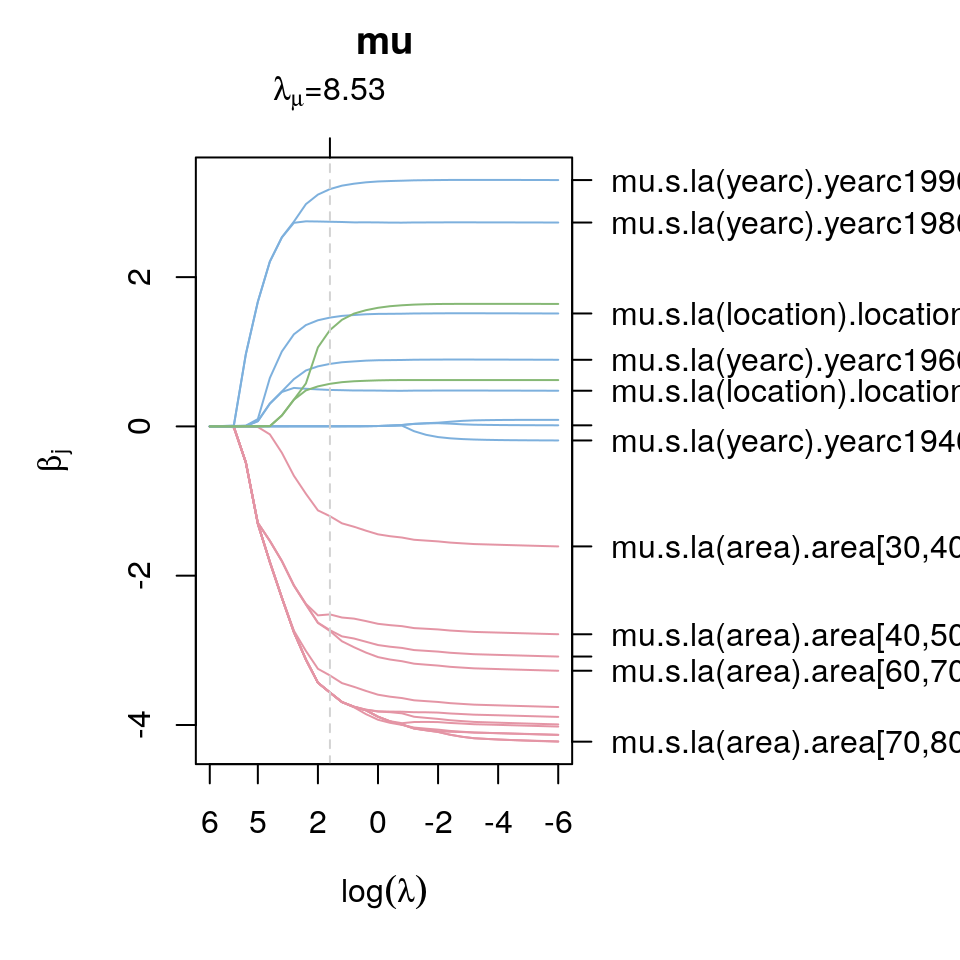
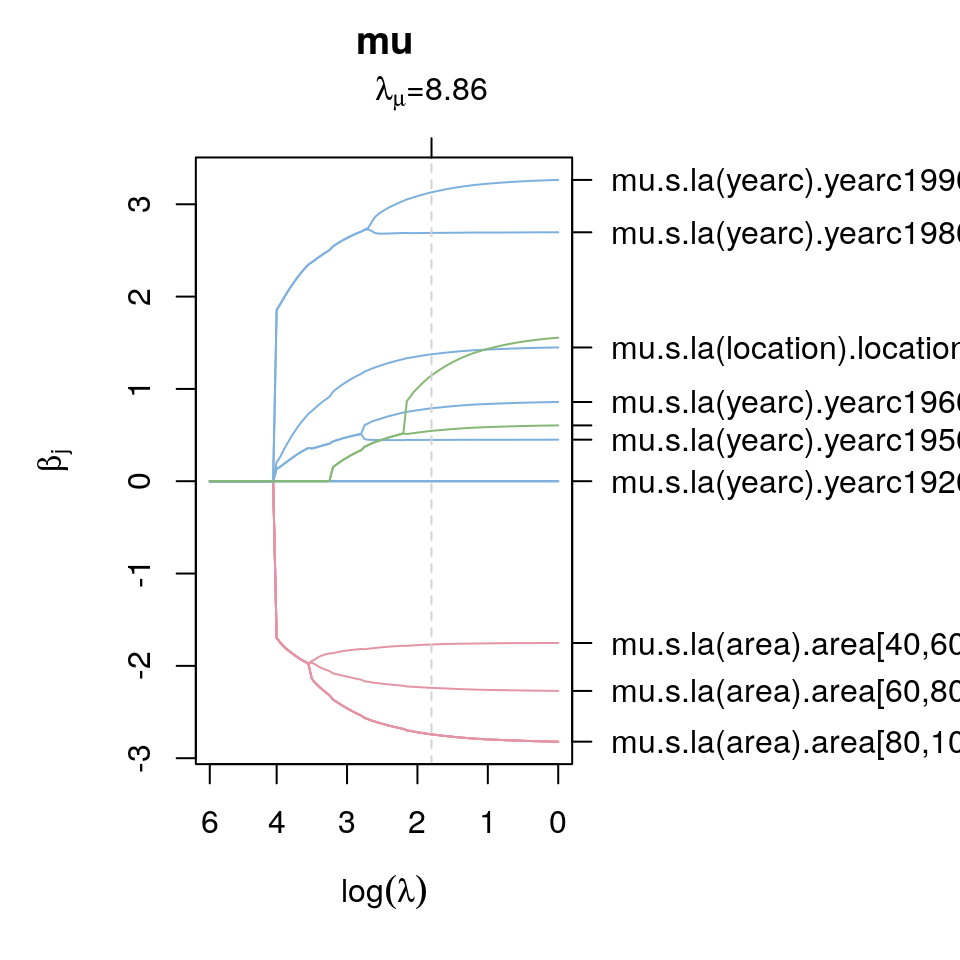
git-svn-id: svn://svn.r-forge.r-project.org/svnroot/bayesr@3400 edb9625f-4e0d-4859-8d74-9fd3b1da38cb

diff --git a/www/articles/lasso.html b/www/articles/lasso.html
@@ -144,9 +144,9 @@
 rent99 &lt;-<span class="st"> </span><span class="kw"><a href="https://www.rdocumentation.org/packages/utils/topics/read.table">read.table</a></span>(file_url, <span class="dt">header =</span> <span class="ot">TRUE</span>)</code></pre></div>
 <p>The response is the monthly rent per square meter in Euro (<code>rentsqm</code>). In this example we use the year of construction (<code>yearc</code>), area (<code>area</code>) and the location classification (`location’, derived from expert knowledge) of the apartment as covariates. Following the example <span class="citation">(Groll et al. 2019)</span>, the two continuous covariates are categorized</p>
 <div class="sourceCode"><pre class="sourceCode r"><code class="sourceCode r">## Create factors of continuous covariates.
-rent99$yearc &lt;-<span class="st"> </span><span class="kw"><a href="https://www.rdocumentation.org/packages/base/topics/factor">as.factor</a></span>(<span class="kw"><a href="https://www.rdocumentation.org/packages/base/topics/Round">floor</a></span>(rent99$yearc /<span class="st"> </span><span class="dv">10</span>) *<span class="st"> </span><span class="dv">10</span>)
-rent99$area &lt;-<span class="st"> </span><span class="kw"><a href="https://www.rdocumentation.org/packages/base/topics/cut">cut</a></span>(rent99$area, <span class="dt">breaks =</span> <span class="kw"><a href="https://www.rdocumentation.org/packages/base/topics/c">c</a></span>(<span class="dv">0</span>, <span class="kw"><a href="https://www.rdocumentation.org/packages/base/topics/seq">seq</a></span>(<span class="dv">30</span>, <span class="dv">140</span>, <span class="dt">by =</span> <span class="dv">10</span>), <span class="ot">Inf</span>),
-  <span class="dt">include.lowest =</span> <span class="ot">TRUE</span>, <span class="dt">right =</span> <span class="ot">FALSE</span>)
+rent99$yearc &lt;-<span class="st"> </span><span class="kw"><a href="https://www.rdocumentation.org/packages/base/topics/factor">ordered</a></span>(<span class="kw"><a href="https://www.rdocumentation.org/packages/base/topics/Round">floor</a></span>(rent99$yearc /<span class="st"> </span><span class="dv">10</span>) *<span class="st"> </span><span class="dv">10</span>)
+rent99$area &lt;-<span class="st"> </span><span class="kw"><a href="https://www.rdocumentation.org/packages/base/topics/cut">cut</a></span>(rent99$area, <span class="dt">breaks =</span> <span class="kw"><a href="https://www.rdocumentation.org/packages/base/topics/seq">seq</a></span>(<span class="dv">20</span>, <span class="dv">160</span>, <span class="dt">by =</span> <span class="dv">20</span>),
+  <span class="dt">include.lowest =</span> <span class="ot">TRUE</span>, <span class="dt">right =</span> <span class="ot">FALSE</span>, <span class="dt">ordered =</span> <span class="ot">TRUE</span>)
 
 ## Also transform to factor.
 rent99$location &lt;-<span class="st"> </span><span class="kw"><a href="https://www.rdocumentation.org/packages/base/topics/factor">as.factor</a></span>(rent99$location)</code></pre></div>
@@ -160,18 +160,18 @@ f &lt;-<span class="st"> </span><span class="kw"><a href="https://www.rdocumenta
 ## LASSO model based on lambda grid,
 ## use special lasso() estimation engine.
 rentmodel &lt;-<span class="st"> </span><span class="kw"><a href="../reference/bamlss.html">bamlss</a></span>(f, <span class="dt">data =</span> rent99, <span class="dt">optimizer =</span> lasso, <span class="dt">sampler =</span> <span class="ot">FALSE</span>,
-  <span class="dt">upper =</span> <span class="kw"><a href="https://www.rdocumentation.org/packages/base/topics/Log">exp</a></span>(<span class="dv">30</span>), <span class="dt">lower =</span> <span class="fl">0.223102</span>, <span class="dt">criterion =</span> <span class="st">"BIC"</span>, <span class="dt">nlambda =</span> <span class="dv">30</span>, <span class="dt">multiple =</span> <span class="ot">TRUE</span>)</code></pre></div>
-<p>where arguments <code>upper</code> and <code>lower</code> define the limits of the LASSO tuning parameters. Estimation in this case is based on the BIC using a two dimensional grid search with <span class="math inline">\(30 \times 30\)</span> iterations. Note that <code>fuse=1</code> is used for nominal fusion and <code>fuse=2</code> for ordinal fusion within the special <code><a href="../reference/lasso.html">la()</a></code> model term constructor function.</p>
+  <span class="dt">criterion =</span> <span class="st">"BIC"</span>, <span class="dt">nlambda =</span> <span class="dv">100</span>, <span class="dt">multiple =</span> <span class="ot">TRUE</span>, <span class="dt">upper =</span> <span class="kw"><a href="https://www.rdocumentation.org/packages/base/topics/Log">exp</a></span>(<span class="dv">6</span>), <span class="dt">lower =</span> <span class="kw"><a href="https://www.rdocumentation.org/packages/base/topics/Log">exp</a></span>(<span class="dv">0</span>))</code></pre></div>
+<p>where arguments <code>upper</code> and <code>lower</code> define the limits of the LASSO tuning parameters. Estimation in this case is based on the BIC using a two dimensional grid search with <span class="math inline">\(200 \times 200\)</span> iterations. Note that <code>fuse=1</code> is used for nominal fusion and <code>fuse=2</code> for ordinal fusion within the special <code><a href="../reference/lasso.html">la()</a></code> model term constructor function.</p>
 <p>The resulting marginal BIC curves can be visualized with</p>
-<div class="sourceCode"><pre class="sourceCode r"><code class="sourceCode r"><span class="kw"><a href="../reference/lasso.html">lasso_plot</a></span>(rentmodel, <span class="dt">which =</span> <span class="st">"criterion"</span>)</code></pre></div>
+<div class="sourceCode"><pre class="sourceCode r"><code class="sourceCode r"><span class="kw"><a href="../reference/pathplot.html">pathplot</a></span>(rentmodel, <span class="dt">which =</span> <span class="st">"criterion"</span>)</code></pre></div>
 <p><img src="lasso_files/figure-html/unnamed-chunk-5-1.png" width="768" style="display: block; margin: auto;"> In this example both tuning parameters have the same value, also indicated by the gray dashed vertical lines. The coefficient paths w.r.t. the tuning parameters can be plotted, e.g., for parameter <span class="math inline">\(\mu\)</span>, with</p>
-<div class="sourceCode"><pre class="sourceCode r"><code class="sourceCode r"><span class="kw"><a href="../reference/lasso.html">lasso_plot</a></span>(rentmodel, <span class="dt">which =</span> <span class="st">"parameters"</span>, <span class="dt">model =</span> <span class="st">"mu"</span>)</code></pre></div>
-<p><img src="lasso_files/figure-html/unnamed-chunk-7-1.png" width="480" style="display: block; margin: auto;"> The legend on the right hand side of the plot is not necessarily very nice (too long). One option to select specific paths for plotting is to set the <code>name</code> argument in <code><a href="../reference/lasso.html">lasso_plot()</a></code>, e.g., plotting the coefficient paths for the year of construction for parameter <span class="math inline">\(\mu\)</span> can be done by</p>
-<div class="sourceCode"><pre class="sourceCode r"><code class="sourceCode r"><span class="kw"><a href="../reference/lasso.html">lasso_plot</a></span>(rentmodel, <span class="dt">which =</span> <span class="st">"parameters"</span>, <span class="dt">model =</span> <span class="st">"mu"</span>,
+<div class="sourceCode"><pre class="sourceCode r"><code class="sourceCode r"><span class="kw"><a href="../reference/pathplot.html">pathplot</a></span>(rentmodel, <span class="dt">which =</span> <span class="st">"parameters"</span>, <span class="dt">model =</span> <span class="st">"mu"</span>)</code></pre></div>
+<p><img src="lasso_files/figure-html/unnamed-chunk-7-1.png" width="480" style="display: block; margin: auto;"> The legend on the right hand side of the plot is not necessarily very nice (too long). One option to select specific paths for plotting is to set the <code>name</code> argument in <code><a href="../reference/pathplot.html">pathplot()</a></code>, e.g., plotting the coefficient paths for the year of construction for parameter <span class="math inline">\(\mu\)</span> can be done by</p>
+<div class="sourceCode"><pre class="sourceCode r"><code class="sourceCode r"><span class="kw"><a href="../reference/pathplot.html">pathplot</a></span>(rentmodel, <span class="dt">which =</span> <span class="st">"parameters"</span>, <span class="dt">model =</span> <span class="st">"mu"</span>,
   <span class="dt">name =</span> <span class="st">"mu.s.la(yearc).yearc"</span>)</code></pre></div>
 <p><img src="lasso_files/figure-html/unnamed-chunk-8-1.png" width="480" style="display: block; margin: auto;"> The plotting function also replaces the names of the coefficients such that the labeling in the plot is easy to read. The plot shows that very old apartments are all shrinked out of the model, whereas apartments from 1950 and younger enter the model and categories are not fused.</p>
 <p>Similarly, the effect on parameter <span class="math inline">\(\sigma\)</span> for the <code>area</code> of the apartment can be plotted by</p>
-<div class="sourceCode"><pre class="sourceCode r"><code class="sourceCode r"><span class="kw"><a href="../reference/lasso.html">lasso_plot</a></span>(rentmodel, <span class="dt">which =</span> <span class="st">"parameters"</span>, <span class="dt">model =</span> <span class="st">"sigma"</span>,
+<div class="sourceCode"><pre class="sourceCode r"><code class="sourceCode r"><span class="kw"><a href="../reference/pathplot.html">pathplot</a></span>(rentmodel, <span class="dt">which =</span> <span class="st">"parameters"</span>, <span class="dt">model =</span> <span class="st">"sigma"</span>,
   <span class="dt">name =</span> <span class="st">"sigma.s.la(area).area"</span>)</code></pre></div>
 <p><img src="lasso_files/figure-html/unnamed-chunk-9-1.png" width="480" style="display: block; margin: auto;"> The plot shows that almost all categories of covariate <code>area</code> are fused using the BIC for tuning parameter selection and uncertainty seems to be lowest for larger apartments.</p>
 </div>
@@ -184,16 +184,16 @@ rentmodel &lt;-<span class="st"> </span><span class="kw"><a href="../reference/b
   <span class="dt">criterion =</span> <span class="st">"BIC"</span>, <span class="dt">nu =</span> <span class="dv">1</span>, <span class="dt">start =</span> <span class="kw"><a href="https://www.rdocumentation.org/packages/stats/topics/coef">coef</a></span>(rentmodel, <span class="dt">mstop =</span> <span class="kw"><a href="../reference/lasso.html">lasso_stop</a></span>(rentmodel)))</code></pre></div>
 <p>using the estimated parameters of the first model as starting values (<code>mstop</code> is the optimum stopping iteration of the <code><a href="../reference/lasso.html">lasso()</a></code> optimizer). Note that we also optimize the step length of the backfitting algorithm by setting <code>nu = 1</code>. To compare both models by BIC, the <code><a href="../reference/lasso.html">lasso_stop()</a></code> functions returns the optimum iteration of the <code><a href="../reference/lasso.html">lasso()</a></code> optimizer</p>
 <div class="sourceCode"><pre class="sourceCode r"><code class="sourceCode r"><span class="kw"><a href="../reference/lasso.html">lasso_stop</a></span>(rentmodel)</code></pre></div>
-<pre><code>## [1] 311
+<pre><code>## [1] 6764
 ## attr(,"stats")
 ##        logLik       logPost           BIC           edf     lambda.mu 
-## -6.464044e+03 -5.184796e+05  1.306482e+04  1.701996e+01  8.531679e+00 
+## -6.492676e+03 -4.811313e+05  1.310644e+04  1.507328e+01  8.862405e+00 
 ##  lambda.sigma 
-##  8.531679e+00</code></pre>
+##  6.954535e+00</code></pre>
 <p>along the estimated degrees of freedom and the BIC. Similarly, the BIC of the second model can be extracted with</p>
 <div class="sourceCode"><pre class="sourceCode r"><code class="sourceCode r"><span class="kw"><a href="https://www.rdocumentation.org/packages/stats/topics/AIC">BIC</a></span>(rentmodel_s)</code></pre></div>
 <pre><code>##       BIC      edf
-##  13059.26 14.29566</code></pre>
+##  13102.81 13.87868</code></pre>
 <p>which is slightly a bit smaller than the first model suggesting that the grid search method is most probably enough in this case.</p>
 <p>Using the <code><a href="../reference/lasso.html">lasso_stop()</a></code> function, we can also extract the corresponding predictions.</p>
 <div class="sourceCode"><pre class="sourceCode r"><code class="sourceCode r"><span class="kw"><a href="https://www.rdocumentation.org/packages/stats/topics/predict">predict</a></span>(rentmodel, <span class="dt">mstop =</span> <span class="kw"><a href="../reference/lasso.html">lasso_stop</a></span>(rentmodel))</code></pre></div>
